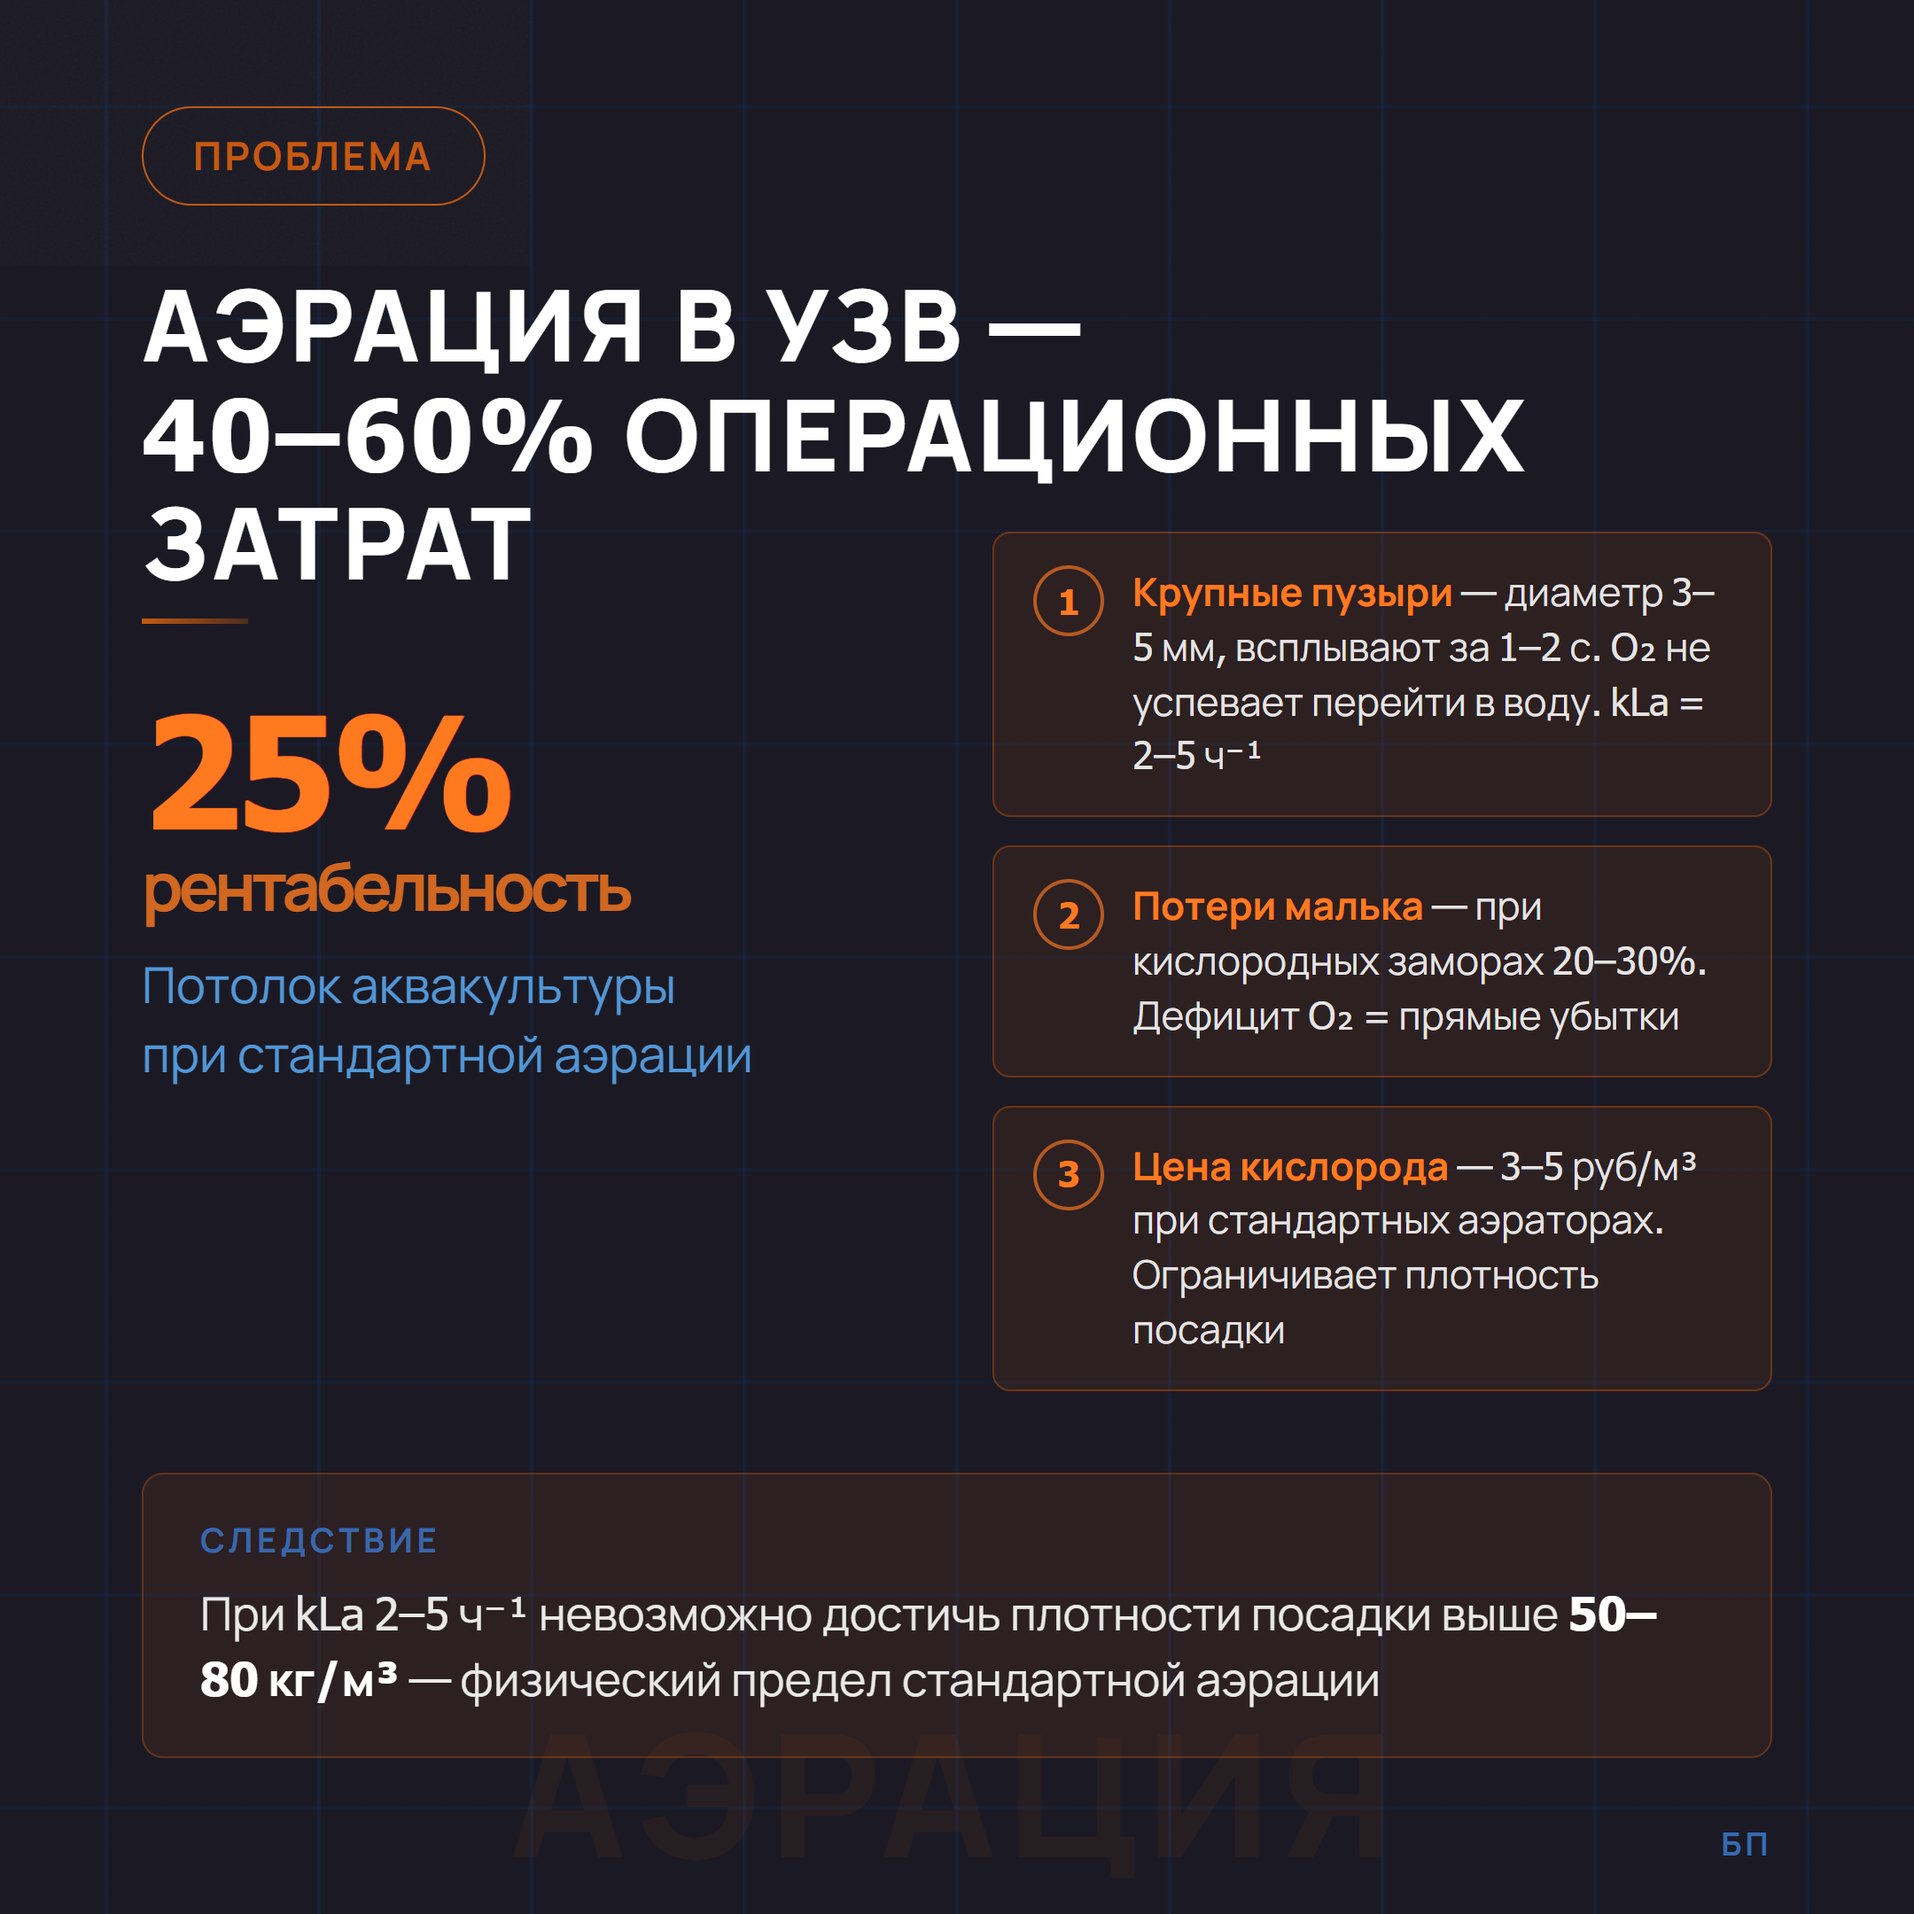
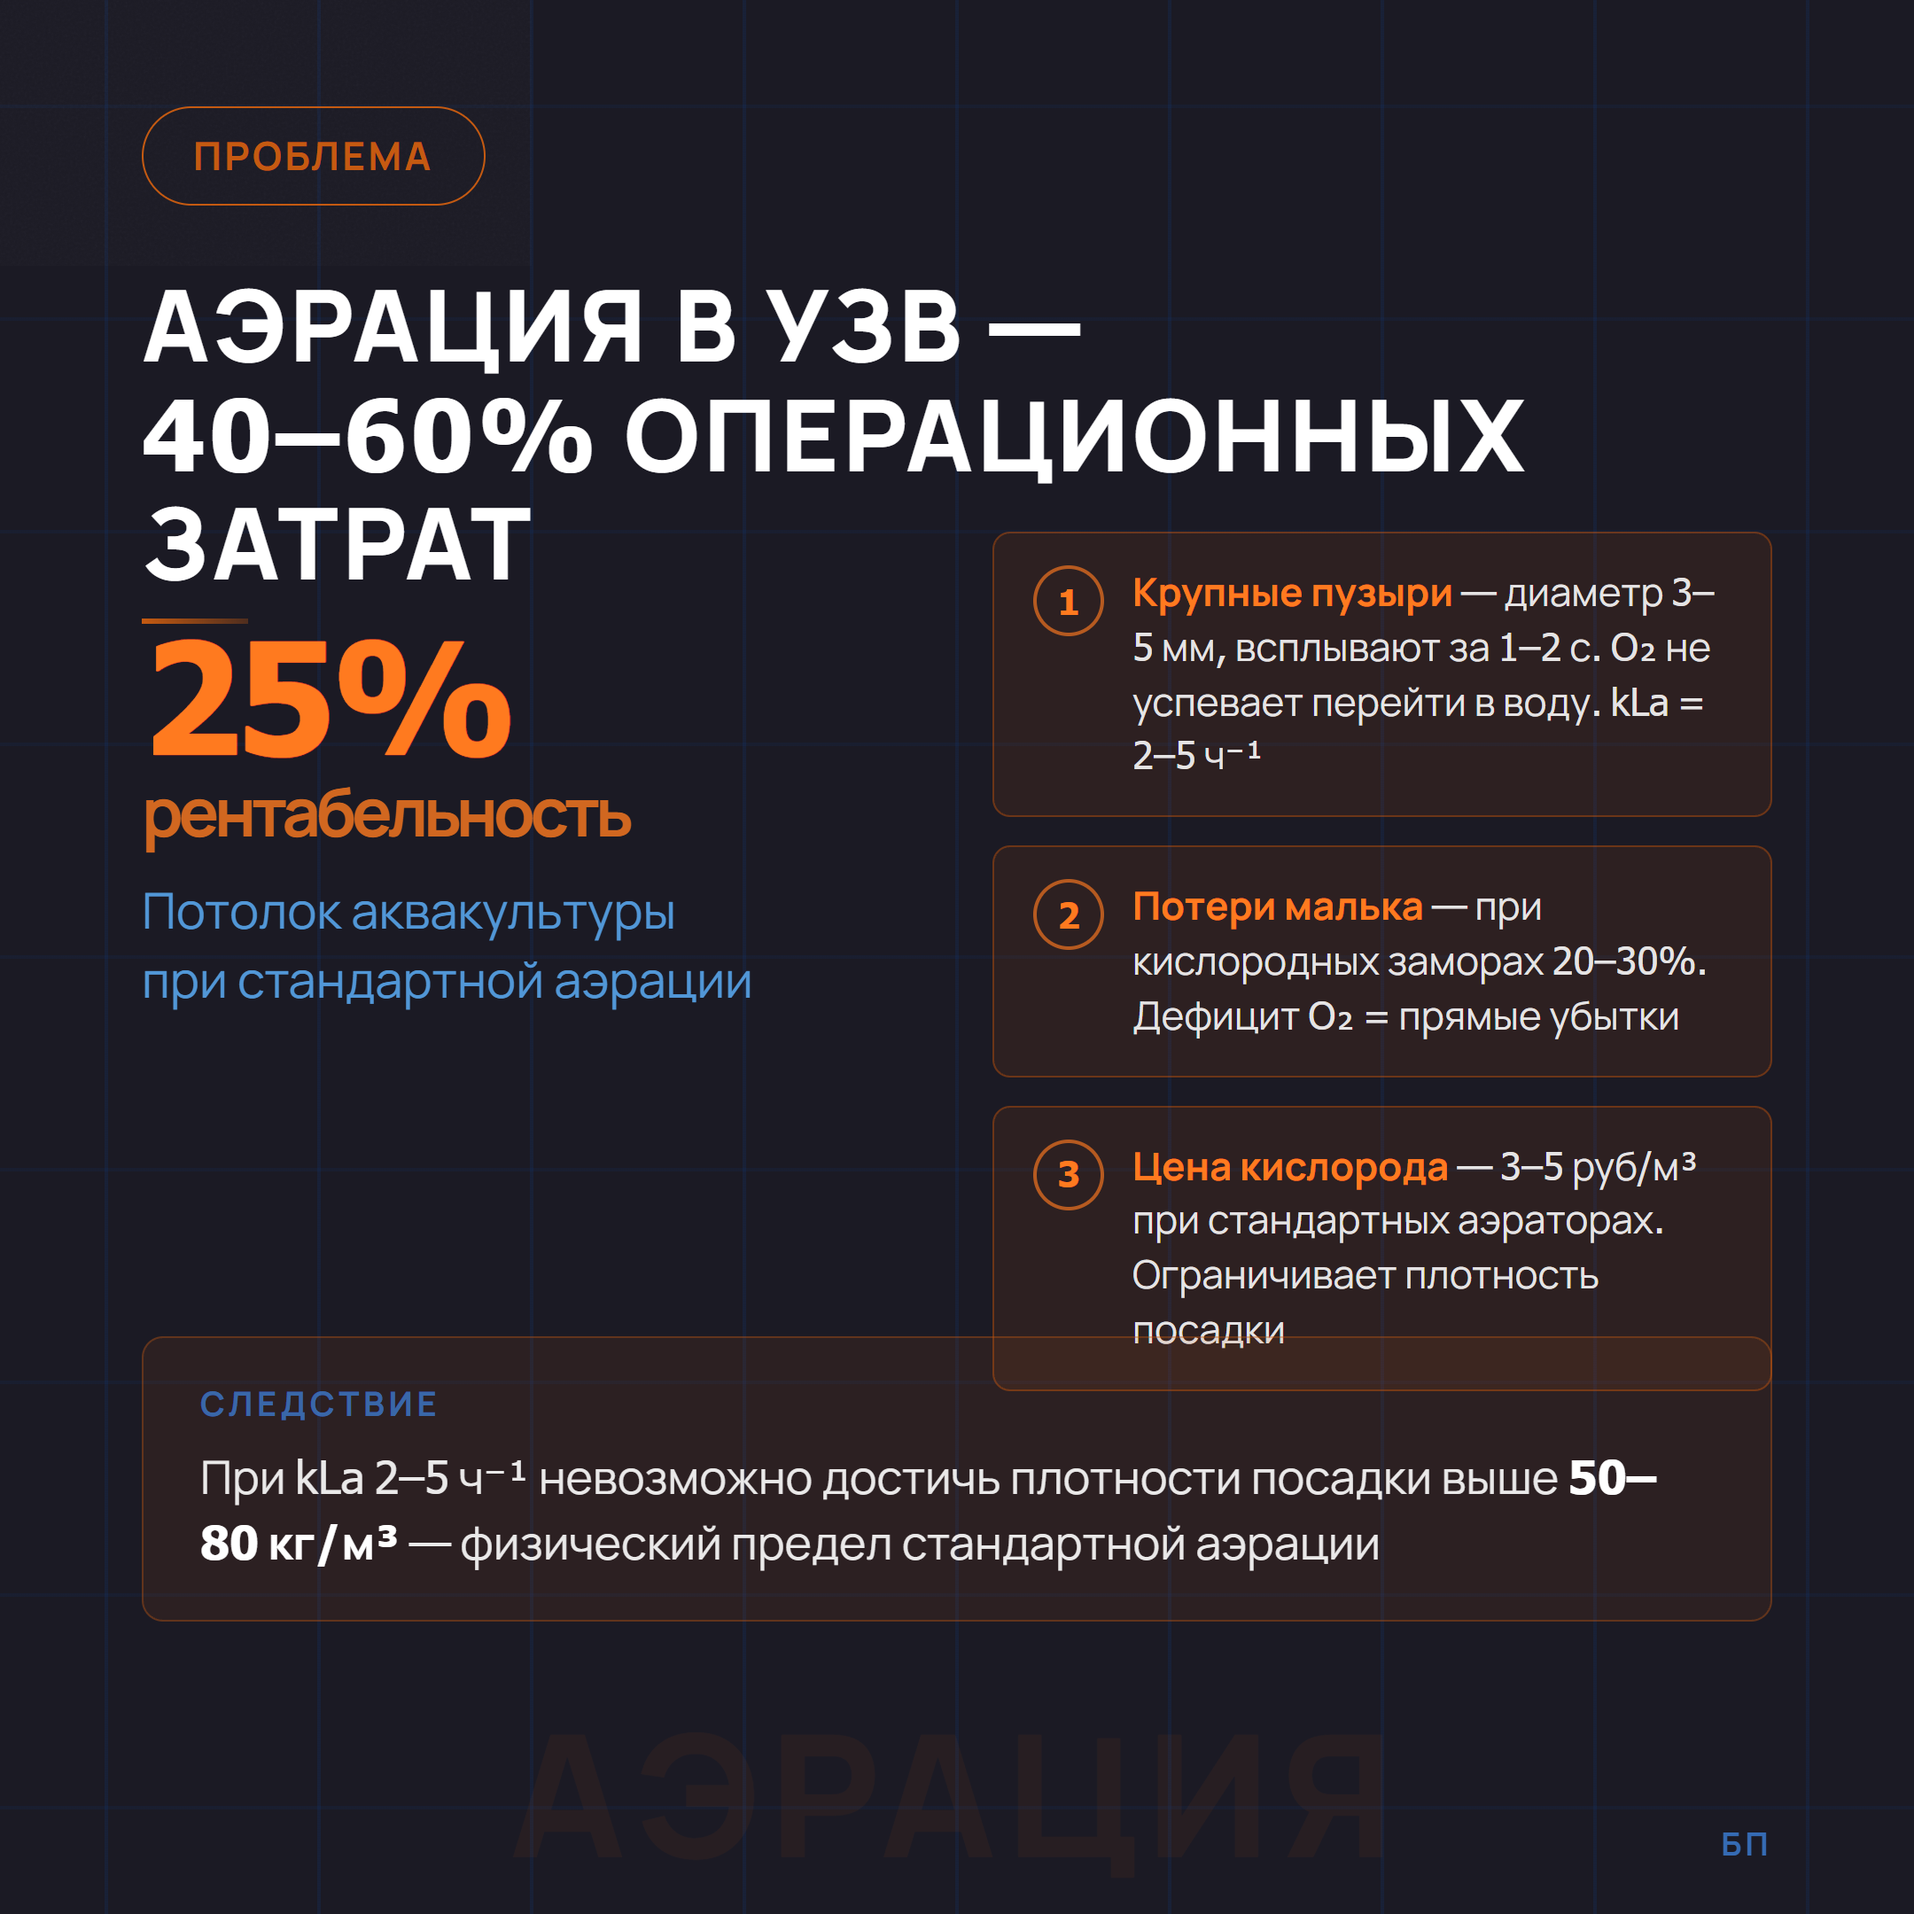
posts: корректировки слайдов 02/03 v2 — Bioprintex_Limatex

Changed region(s): [[0.0931, 0.7134, 0.8685, 0.8995], [0.062, 0.3102, 0.4032, 0.5583]]

diff --git a/projects/Bioprintex_Limatex/posts/drafts/05_05_2026-1/slide_03.html b/projects/Bioprintex_Limatex/posts/drafts/05_05_2026-1/slide_03.html
@@ -90,19 +90,19 @@
 
     <!-- Зоны давления внутри -->
     <rect x="168" y="28" width="234" height="122" rx="8" fill="rgba(4,79,186,0.20)" stroke="rgba(65,142,241,0.40)" stroke-width="1.5"/>
-    <text x="285" y="80" text-anchor="middle" font-family="Tahoma,sans-serif" font-size="19" font-weight="700" fill="rgba(65,142,241,0.90)">ЗОНА 1</text>
-    <text x="285" y="102" text-anchor="middle" font-family="Tahoma,sans-serif" font-size="15" fill="rgba(65,142,241,0.65)">высокое давление</text>
-    <text x="285" y="122" text-anchor="middle" font-family="Tahoma,sans-serif" font-size="15" fill="rgba(65,142,241,0.65)">→ растворение O₂</text>
+    <text x="285" y="82" text-anchor="middle" font-family="Tahoma,sans-serif" font-size="24" font-weight="700" fill="rgba(65,142,241,0.90)">ЗОНА 1</text>
+    <text x="285" y="105" text-anchor="middle" font-family="Tahoma,sans-serif" font-size="15" fill="rgba(65,142,241,0.65)">высокое давление</text>
+    <text x="285" y="124" text-anchor="middle" font-family="Tahoma,sans-serif" font-size="15" fill="rgba(65,142,241,0.65)">→ растворение O₂</text>
 
     <rect x="168" y="158" width="234" height="122" rx="8" fill="rgba(0,175,80,0.14)" stroke="rgba(0,224,101,0.40)" stroke-width="1.5"/>
-    <text x="285" y="200" text-anchor="middle" font-family="Tahoma,sans-serif" font-size="19" font-weight="700" fill="rgba(0,224,101,0.90)">ЗОНА 2</text>
-    <text x="285" y="220" text-anchor="middle" font-family="Tahoma,sans-serif" font-size="15" fill="rgba(0,224,101,0.70)">микропузыри Ø&lt;0,3 мм</text>
-    <text x="285" y="238" text-anchor="middle" font-family="Tahoma,sans-serif" font-size="15" fill="rgba(0,224,101,0.70)">площадь ×10</text>
+    <text x="285" y="202" text-anchor="middle" font-family="Tahoma,sans-serif" font-size="24" font-weight="700" fill="rgba(0,224,101,0.90)">ЗОНА 2</text>
+    <text x="285" y="225" text-anchor="middle" font-family="Tahoma,sans-serif" font-size="15" fill="rgba(0,224,101,0.70)">микропузыри Ø&lt;0,3 мм</text>
+    <text x="285" y="244" text-anchor="middle" font-family="Tahoma,sans-serif" font-size="15" fill="rgba(0,224,101,0.70)">площадь ×10</text>
 
     <rect x="168" y="288" width="234" height="122" rx="8" fill="rgba(4,79,186,0.16)" stroke="rgba(65,142,241,0.35)" stroke-width="1.5"/>
-    <text x="285" y="330" text-anchor="middle" font-family="Tahoma,sans-serif" font-size="19" font-weight="700" fill="rgba(65,142,241,0.90)">ЗОНА 3</text>
-    <text x="285" y="352" text-anchor="middle" font-family="Tahoma,sans-serif" font-size="15" fill="rgba(65,142,241,0.65)">сепарация · выход</text>
-    <text x="285" y="370" text-anchor="middle" font-family="Tahoma,sans-serif" font-size="15" fill="rgba(65,142,241,0.65)">насыщенной воды</text>
+    <text x="285" y="332" text-anchor="middle" font-family="Tahoma,sans-serif" font-size="24" font-weight="700" fill="rgba(65,142,241,0.90)">ЗОНА 3</text>
+    <text x="285" y="355" text-anchor="middle" font-family="Tahoma,sans-serif" font-size="15" fill="rgba(65,142,241,0.65)">сепарация · выход</text>
+    <text x="285" y="374" text-anchor="middle" font-family="Tahoma,sans-serif" font-size="15" fill="rgba(65,142,241,0.65)">насыщенной воды</text>
 
     <!-- Вход воды (слева) -->
     <line x1="0" y1="85" x2="158" y2="85" stroke="#418EF1" stroke-width="2.5"/>
@@ -138,13 +138,13 @@
     <circle cx="360" cy="245" r="3" fill="rgba(0,224,101,0.60)" stroke="#00E065" stroke-width="1"/>
 
     <!-- Сравнение снизу -->
-    <text x="0" y="470" font-family="Tahoma,sans-serif" font-size="16" font-weight="700" fill="rgba(255,122,31,0.80)" letter-spacing="1">СТАНДАРТ</text>
-    <rect x="0" y="480" width="235" height="36" rx="6" fill="rgba(255,100,0,0.12)" stroke="rgba(255,100,0,0.30)" stroke-width="1.5"/>
-    <text x="12" y="503" font-family="Tahoma,sans-serif" font-size="15" font-weight="700" fill="#FF7A1F">kLa 2–5 ч⁻¹ · Ø 3–5 мм</text>
+    <text x="0" y="502" font-family="Tahoma,sans-serif" font-size="19" font-weight="700" fill="rgba(255,122,31,0.80)" letter-spacing="1">СТАНДАРТ</text>
+    <rect x="0" y="514" width="242" height="44" rx="6" fill="rgba(255,100,0,0.12)" stroke="rgba(255,100,0,0.30)" stroke-width="1.5"/>
+    <text x="12" y="542" font-family="Tahoma,sans-serif" font-size="17" font-weight="700" fill="#FF7A1F">kLa 2–5 ч⁻¹ · Ø 3–5 мм</text>
 
-    <text x="250" y="470" font-family="Tahoma,sans-serif" font-size="16" font-weight="700" fill="rgba(0,224,101,0.80)" letter-spacing="1">АЭРАТОР ЗГ</text>
-    <rect x="250" y="480" width="260" height="36" rx="6" fill="rgba(0,175,80,0.14)" stroke="rgba(0,224,101,0.35)" stroke-width="1.5"/>
-    <text x="260" y="503" font-family="Tahoma,sans-serif" font-size="15" font-weight="700" fill="#00E065">kLa 10–20 ч⁻¹ · Ø &lt;0,3 мм</text>
+    <text x="238" y="502" font-family="Tahoma,sans-serif" font-size="19" font-weight="700" fill="rgba(0,224,101,0.80)" letter-spacing="1">АЭРАТОР ЗГ</text>
+    <rect x="238" y="514" width="270" height="44" rx="6" fill="rgba(0,175,80,0.14)" stroke="rgba(0,224,101,0.35)" stroke-width="1.5"/>
+    <text x="248" y="542" font-family="Tahoma,sans-serif" font-size="17" font-weight="700" fill="#00E065">kLa 10–20 ч⁻¹ · Ø &lt;0,3 мм</text>
   </svg>
 
   <div class="params">

diff --git a/projects/Bioprintex_Limatex/posts/drafts/05_05_2026-1/slide_02.html b/projects/Bioprintex_Limatex/posts/drafts/05_05_2026-1/slide_02.html
@@ -37,7 +37,7 @@
 
   /* Большая цифра */
   .big-stat {
-    position: absolute; top: 390px; left: 80px; width: 440px;
+    position: absolute; top: 348px; left: 80px; width: 440px;
   }
   .big-val { font-size: 88px; font-weight: 800; color: #FF7A1F; line-height: 1; letter-spacing: -0.03em; }
   .big-unit { font-size: 38px; font-weight: 700; color: rgba(255,122,31,0.80); display: block; margin-top: 2px; }
@@ -67,7 +67,7 @@
 
   /* Нижняя полоса с выводом */
   .conclusion {
-    position: absolute; bottom: 88px; left: 80px; right: 80px;
+    position: absolute; bottom: 165px; left: 80px; right: 80px;
     padding: 24px 32px;
     background: rgba(197,90,17,0.10);
     border: 1px solid rgba(197,90,17,0.35);
